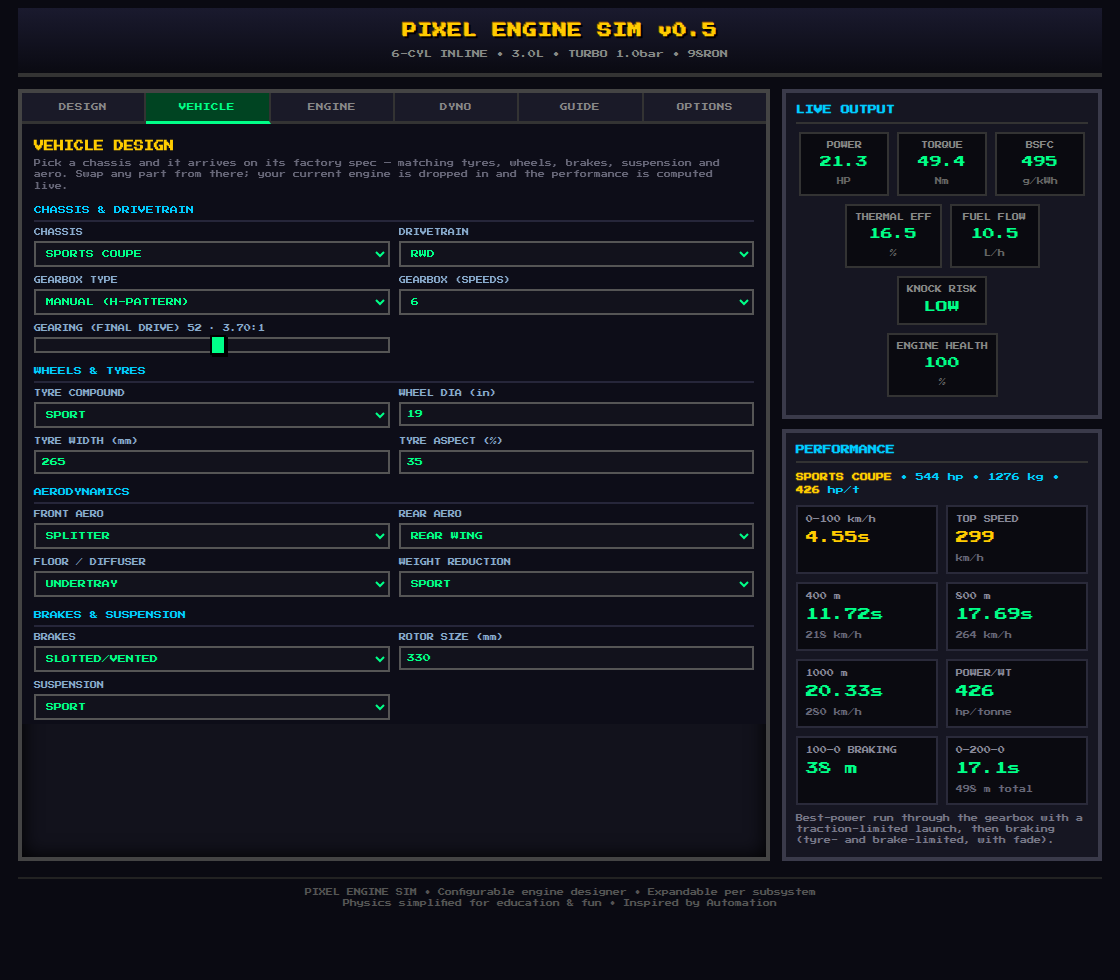
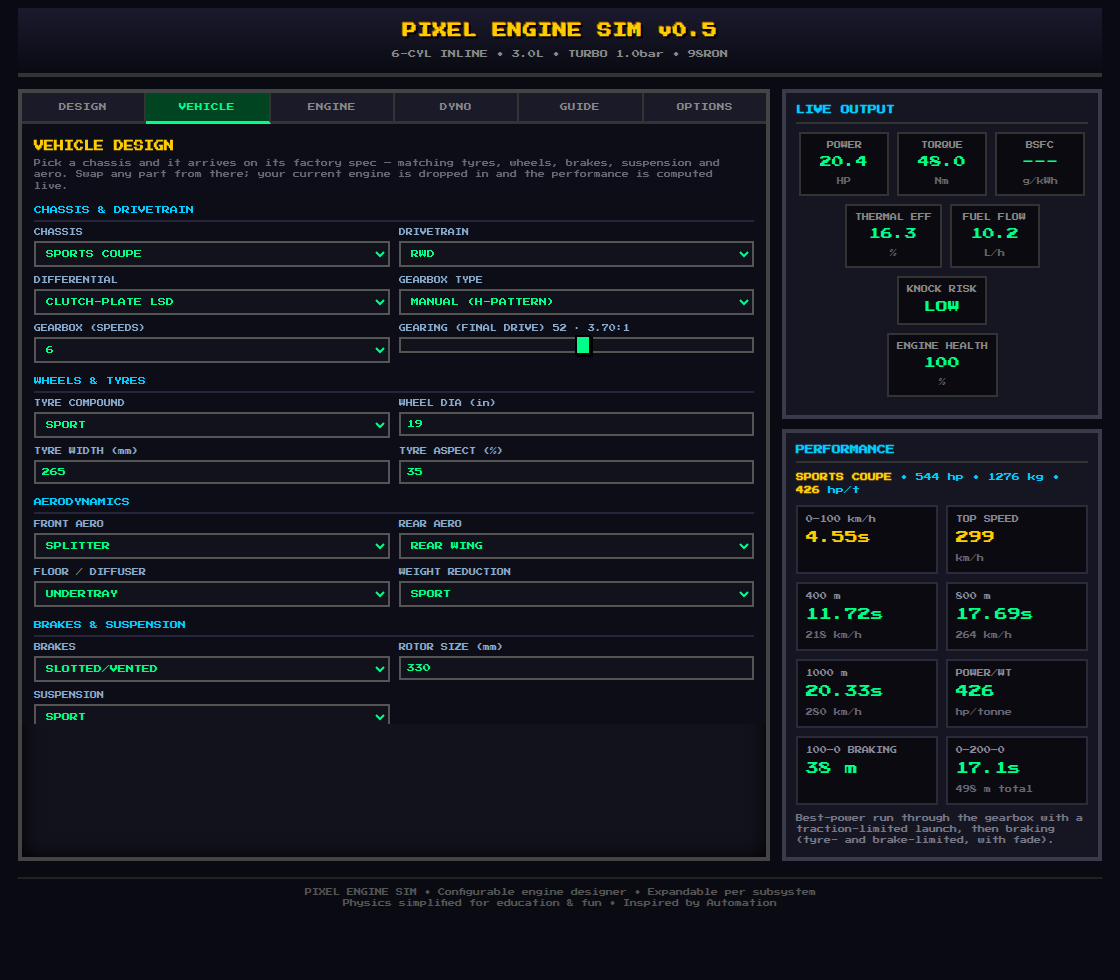
Add differential types: open, viscous LSD, clutch-plate LSD and spool (#32)
PR B of the drivetrain pair. The driven axle put down 100% of its grip
regardless of what was between the wheels.

An axle's two wheels are never loaded identically — road camber, engine torque
reaction, axle wind-up and suspension geometry all unload one side. An OPEN
diff can only feed each wheel the torque the lighter-loaded one will hold, so
it spins that wheel and throws the rest away; the usable share of axle grip is
1 - 2*asym for that asymmetry. A limited-slip ties the two together and
recovers most of it, a spool welds them and recovers all of it:

  open   0.78    viscous 0.92    clutch-plate 1.00    spool 1.04

The model caps traction rather than torque, so the effect is emergent and
self-scaling: it only bites while the car is traction-limited. On an 842 hp
muscle car, open -> spool is worth 1.85 s to 100 km/h (6.43 -> 4.58 s). On a
48 hp 2-stroke kei the same swap is worth 0.00 s, because it never troubles its
tyres. Top speed is drag-limited and is untouched by the diff in every case.

The clutch-plate LSD is deliberately traction:1.00, so builds saved before
differentials existed (which inherit DEFAULT_VEHICLE) reproduce their old
numbers exactly rather than silently getting slower.

Each chassis' factory fit carries a matching diff — kei/hatch/pickup open,
roadster/sedan/SUV viscous, coupe/muscle/rally/GT/super/hyper clutch-plate,
prototype spool — and diff cost feeds the build budget.
[…]

Changed region(s): [[0.0312, 0.2755, 0.6875, 0.7347], [0.3438, 0.2755, 0.6562, 0.3673], [0.9062, 0.1531, 0.9375, 0.1837]]

diff --git a/index.html b/index.html
@@ -397,6 +397,22 @@ converter stalls up against the brakes and <i>multiplies</i> engine torque (up t
 manual despite giving away power everywhere else — and why it suits a heavy, torquey car far
 better than a light, peaky one. It also spreads its ratios wider: a lower 1st to get the load
 moving, a taller top for cruising.<br>
+<b>The differential</b> splits drive between the two wheels on an axle — and decides how much of
+that axle's grip you can actually use. The two wheels are never loaded identically (road camber,
+engine torque reaction, axle wind-up, suspension geometry), and an <b>open</b> diff can only feed
+each wheel what the <i>lighter-loaded</i> one will hold: it spins that wheel and throws the rest
+away, leaving about 78% of the axle's grip usable. A <b>viscous LSD</b> ties the two together
+through fluid shear and recovers most of it (~92%); a <b>clutch-plate LSD</b> locks them against a
+preload for effectively all of it; a <b>spool</b> welds them solid and is the best of all in a
+straight line, which is why drag cars run one.<br>
+The key thing: a diff only matters while you're <b>traction-limited</b>. Fit a spool to a slow car
+and nothing changes — it never troubles its tyres. Fit one to a car that's spinning up off the
+line and it can be worth more than a power upgrade. Watch the LIMITED-BY behaviour: if your 0–100
+barely moves when you change diff, the engine is the limit, not grip.<br>
+<span style="color:#c86">One caveat — a spool's real cost is cornering: it fights every turn,
+scrubs tyres and understeers badly, which is why road cars don't use one. This sim only measures
+straight lines so far, so the spool looks strictly best here. Take that with a pinch of salt until
+the test track lands.</span><br>
 <b>The gearing number</b> — the 0–100 slider is your <b>final drive ratio</b>, how many times the
 driveshaft turns per turn of the wheels. It runs from <b>0 = 4.90:1</b> (the <i>shortest</i>,
 lowest gearing) to <b>100 = 2.60:1</b> (the <i>tallest</i>); the ratio is shown next to the number.
@@ -450,6 +466,7 @@ experiment freely, then back on for consequences.</div>
 <option value="hyper">CARBON HYPERCAR</option><option value="proto">TRACK PROTOTYPE</option><option value="pickup">PICKUP TRUCK</option><option value="suv">PERFORMANCE SUV</option>
 </select></div>
 <div class="field"><label for="vhDrive">DRIVETRAIN</label><select id="vhDrive"><option value="fwd">FWD</option><option value="rwd">RWD</option><option value="awd">AWD</option></select></div>
+<div class="field"><label for="vhDiff">DIFFERENTIAL</label><select id="vhDiff"><option value="open">OPEN</option><option value="visc">VISCOUS LSD</option><option value="clsd">CLUTCH-PLATE LSD</option><option value="spool">SPOOL / LOCKED</option></select></div>
 <div class="field"><label for="vhGearbox">GEARBOX TYPE</label><select id="vhGearbox"><option value="manual">MANUAL (H-PATTERN)</option><option value="sequential">SEQUENTIAL</option><option value="dct">DUAL-CLUTCH (DCT)</option><option value="auto">TORQUE-CONV AUTO</option></select></div>
 <div class="field"><label for="vhGears">GEARBOX (SPEEDS)</label><select id="vhGears"><option value="4">4</option><option value="5">5</option><option value="6">6</option><option value="7">7</option><option value="8">8</option></select></div>
 <div class="field"><label for="vhGearing"><span id="lblGearing" class="ctl-lbl">GEARING (FINAL DRIVE)</span> <span class="val" id="valGearing">52</span></label><input type="range" id="vhGearing" min="0" max="100" step="1" value="52" aria-label="Gearing short to tall"></div>
@@ -720,6 +737,7 @@ const I18N={
   'VEHICLE':{el:'ΟΧΗΜΑ'},'VEHICLE DESIGN':{el:'ΣΧΕΔΙΑΣΗ ΟΧΗΜΑΤΟΣ'},
   'Pick a chassis and it arrives on its factory spec — matching tyres, wheels, brakes, suspension and aero. Swap any part from there; your current engine is dropped in and the performance is computed live.':{el:'Διάλεξε σασί και έρχεται με τον εργοστασιακό του εξοπλισμό — ταιριαστά ελαστικά, ζάντες, φρένα, ανάρτηση και αεροδυναμική. Άλλαξε ό,τι θέλεις από εκεί· ο τρέχων κινητήρας μπαίνει μέσα και οι επιδόσεις υπολογίζονται ζωντανά.'},
   'Chassis & Drivetrain':{el:'Σασί & Μετάδοση'},'CHASSIS':{el:'ΣΑΣΙ'},'DRIVETRAIN':{el:'ΜΕΤΑΔΟΣΗ'},'GEARBOX (SPEEDS)':{el:'ΚΙΒΩΤΙΟ (ΣΧΕΣΕΙΣ)'},'GEARING (FINAL DRIVE)':{el:'ΤΕΛΙΚΗ ΣΧΕΣΗ'},
+  'DIFFERENTIAL':{el:'ΔΙΑΦΟΡΙΚΟ'},'OPEN':{el:'ΑΝΟΙΧΤΟ'},'VISCOUS LSD':{el:'ΙΞΩΔΕΣ LSD'},'CLUTCH-PLATE LSD':{el:'LSD ΜΕ ΔΙΣΚΟΥΣ'},'SPOOL / LOCKED':{el:'ΜΠΛΟΚΕ / SPOOL'},
   'GEARBOX TYPE':{el:'ΤΥΠΟΣ ΚΙΒΩΤΙΟΥ'},'MANUAL (H-PATTERN)':{el:'ΧΕΙΡΟΚΙΝΗΤΟ (H)'},'SEQUENTIAL':{el:'ΣΕΙΡΙΑΚΟ'},'DUAL-CLUTCH (DCT)':{el:'ΔΙΠΛΟΥ ΣΥΜΠΛΕΚΤΗ (DCT)'},'TORQUE-CONV AUTO':{el:'ΑΥΤΟΜΑΤΟ (ΜΕΤΑΤΡΟΠΕΑΣ)'},
   'REFIT FACTORY SPEC':{el:'ΕΡΓΟΣΤΑΣΙΑΚΟΣ ΕΞΟΠΛΙΣΜΟΣ'},'FITTED':{el:'ΤΟΠΟΘΕΤΗΘΗΚΕ'},'REFITTED TO FACTORY SPEC':{el:'ΕΠΑΝΑΦΟΡΑ ΣΤΟΝ ΕΡΓΟΣΤΑΣΙΑΚΟ ΕΞΟΠΛΙΣΜΟ'},
   '(factory spec)':{el:'(εργοστασιακό)'},'(modified)':{el:'(τροποποιημένο)'},
@@ -749,7 +767,7 @@ const GUIDE_I18N={
   career:{el:'Διάλεξε έναν <b>ΣΤΟΧΟ</b> στην κορυφή της ΣΧΕΔΙΑΣΗΣ για να κάνεις τη σχεδίαση γρίφο. Κάθε πρόκληση θέτει κριτήρια — ισχύ, οικονομία, εκπομπές, <b>αξιοπιστία</b> ή <b>ισχύ ανά δολάριο</b> — και κάποιες βάζουν όριο <b>προϋπολογισμού</b>. Η κάρτα τσεκάρει κάθε κριτήριο ζωντανά (✓/✗) και δείχνει <b>ΕΠΙΤΥΧΙΑ</b> όταν καλυφθούν όλα· κόστος και αξιοπιστία φαίνονται πάντα. Ο μεγάλος κυβισμός κερδίζει σε αξία· boost και αγωνιστικά μέρη κερδίζουν σε ισχύ αλλά κοστίζουν σε χρήμα και αξιοπιστία.'},
   types:{el:'<b>Βενζίνη 4-χρονη</b> — η ισορροπημένη επιλογή: ανάφλεξη με σπινθήρα, μία εκρηκτική διαδρομή ανά δύο στροφές.<br><b>Πετρέλαιο (CI)</b> — ανάφλεξη με συμπίεση (χωρίς μπουζί, χωρίς πειράκι), πολύ υψηλή συμπίεση, φτωχό χωρίς πεταλούδα. Μεγάλη <b>ροπή</b> στις χαμηλές, χαμηλό όριο στροφών, η καλύτερη <b>απόδοση</b> — αλλά βαρύ, με εκπομπές <b>NOx + αιθάλη (PM)</b> που καθαρίζει σύστημα DPF/SCR.<br><b>2-χρονη</b> — εκρηκτική διαδρομή σε <i>κάθε</i> στροφή (θυρίδες, χωρίς εκκεντροφόρο): υψηλή ειδική ισχύς αλλά λαίμαργη και <b>HC</b>-βρόμικη.<br><b>Wankel (ρότορας)</b> — περιστρεφόμενος ρότορας που ανάβει σε κάθε στροφή: ομαλός σαν τουρμπίνα, τεράστιες στροφές, υψηλή ισχύς ανά λίτρο, αλλά λαίμαργος, <b>HC</b>-βαρύς και σκληρός στα ελάσματα κορυφής.<br>Η αλλαγή τύπου προσαρμόζει τα εύρη συμπίεσης/στροφών/AFR και απενεργοποιεί ό,τι δεν ισχύει.'},
   subsystems:{el:'<b>Κάτω μέρος</b> — τύπος κινητήρα, διάμετρος × διαδρομή × κύλινδροι = κυβισμός· υπερτετράγωνος & υψηλότερο όριο ανεβάζουν την περιοχή ισχύος.<br><b>Διαδρομή αέρα</b> — τούρμπο (γεμίζει με τις στροφές) ή υπερσυμπιεστής (boost από ρελαντί)· το intercooler ψύχει το χάρμανι· εξάτμιση & καταλύτης ανταλλάσσουν ροή με αντίθλιψη/εκπομπές· το νιτρό είναι εμφιαλωμένη ισχύς.<br><b>Εισαγωγή</b> — καρμπιρατέρ → EFI → ITB ορίζουν αναπνοή, ακρίβεια & ρελαντί.<br><b>Χρονισμός βαλβίδων</b> — άγριες εκκεντροφόροι ανεβάζουν την ισχύ ψηλά· το VVT επαναφέρει τις χαμηλές.<br><b>Καύσιμο & σπινθήρας</b> — τύπος καυσίμου, οκτάνια, μπεκ, ανάφλεξη, χρονισμός FIXED/AUTO και το μείγμα: MANUAL (ένα σταθερό AFR) ή AUTO — ένας 3D χάρτης ECU που τρέχει κοντά στο στοιχειομετρικό στο ελαφρύ φορτίο και εμπλουτίζει υπό φορτίο/boost, όπως ένας πραγματικός χάρτης καυσίμου. Στο AUTO μπορείς να <b>ρυθμίσεις τον χάρτη</b>: πάτησε ένα κελί και μετά − ΦΤΩΧΟ / + ΠΛΟΥΣΙΟ για να αλλάξεις τον στόχο σε εκείνο το φορτίο×στροφές (ΕΠΑΝΑΦΟΡΑ ΧΑΡΤΗ επαναφέρει το εργοστασιακό).<br><b>Ψύξη & ηλεκτρικά</b> — ψυγείο/βεντιλατέρ/ψυγείο λαδιού/θερμοστάτης ορίζουν θερμοκρασίες· δυναμό & ανάφλεξη ορίζουν φόρτιση και όριο μισφάιρ.'},
-  vehicle:{el:'Στην καρτέλα <b>ΟΧΗΜΑ</b> βάζεις τον κινητήρα σου σε αυτοκίνητο. Διάλεξε <b>σασί</b> και έρχεται με τον <b>εργοστασιακό του εξοπλισμό</b> — τα ελαστικά, ζάντες, φρένα, ανάρτηση, αεροδυναμική και κιβώτιο που θα φορούσε πραγματικά: ένα kei εμφανίζεται με στενά οικονομικά ελαστικά και μικρούς ατσάλινους δίσκους, ενώ ένα hypercar παίρνει φαρδιά semi-slick, carbon-ceramic φρένα και πακέτο αεροτομής/diffuser. Όλα παραμένουν επεξεργάσιμα· το <b>ΕΡΓΟΣΤΑΣΙΑΚΟΣ ΕΞΟΠΛΙΣΜΟΣ</b> τα επαναφέρει.<br>Από εκεί ρυθμίζεις <b>μετάδοση</b> (FWD/RWD/AWD — το AWD ξεκινά καλύτερα), <b>κιβώτιο</b> (τύπος, σχέσεις + ρυθμιστικό τελικής), <b>ελαστικά</b> (τύπος + πλάτος/προφίλ/διάμετρος), <b>αεροδυναμική</b> (εμπρός/πίσω/πάτωμα = κάθετη δύναμη & οπισθέλκουσα), <b>φρένα</b> (τύπος + διάμετρος δίσκου) και <b>ανάρτηση</b> (πολλαπλασιαστής μηχανικής πρόσφυσης).<br><b>Ο τύπος κιβωτίου</b> αλλάζει τέσσερα πράγματα: πόσο κόβεται η μετάδοση σε κάθε αλλαγή, πόση από την ισχύ του κινητήρα φτάνει στους τροχούς, πώς είναι κλιμακωμένες οι σχέσεις, και πώς ξεκινά το αυτοκίνητο.<br>· <b>Χειροκίνητο (H)</b> — το πιο αποδοτικό, αλλά χάνεις ~350 ms σε κάθε αλλαγή. Φθηνό.<br>· <b>Σειριακό</b> — αγωνιστικό: αλλαγές ~60 ms και κοντές σχέσεις που κρατούν έναν «αιχμηρό» κινητήρα στην περιοχή του. Ακριβό.<br>· <b>Διπλού συμπλέκτη (DCT)</b> — η επόμενη σχέση είναι ήδη επιλεγμένη στον δεύτερο συμπλέκτη, άρα σχεδόν αδιάλειπτες αλλαγές (~30 ms). Το ταχύτερο, και ανάλογα ακριβό.<br>· <b>Αυτόματο με μετατροπέα ροπής</b> — οι πιο αργές αλλαγές (~200 ms) και οι μεγαλύτερες απώλειες, γιατί μεταδίδει μέσω υγρού. Το κερδίζει στην <b>εκκίνηση</b>: ο μετατροπέας «φορτίζει» πάνω στα φρένα και <i>πολλαπλασιάζει</i> τη ροπή (έως ~1.9× σε στάλλ 2400 σ.α.λ.), σβήνοντας στο 1:1 καθώς ο στρόβιλος προλαβαίνει. Γι’ αυτό ένα αυτόματο ξεκινά καλύτερα από ένα χειροκίνητο παρότι χάνει ισχύ παντού αλλού — και γι’ αυτό ταιριάζει σε βαρύ, ροπάτο αυτοκίνητο, όχι σε ελαφρύ και «αιχμηρό». Επίσης απλώνει περισσότερο τις σχέσεις: πιο κοντή 1η, πιο μακριά τελευταία.<br><b>Ο αριθμός της τελικής</b> — το ρυθμιστικό 0–100 είναι η <b>σχέση τελικής μετάδοσης</b>, πόσες φορές γυρίζει ο άξονας ανά στροφή των τροχών. Πάει από <b>0 = 4.90:1</b> (η <i>κοντύτερη</i>) έως <b>100 = 2.60:1</b> (η <i>μακρύτερη</i>)· η σχέση φαίνεται δίπλα στον αριθμό. Κοντή τελική πολλαπλασιάζει τη ροπή στους τροχούς: δυνατότερη επιτάχυνση, αλλά κάθε σχέση τελειώνει νωρίς. Μακριά τελική κάνει το αντίθετο: πιο νωθρή επιτάχυνση, περισσότερη ταχύτητα ανά 1000 στροφές και ήρεμο ταξίδι. Ιδανική είναι η πιο μακριά που ο κινητήρας μπορεί ακόμα να τραβήξει ως την κορυφή της ισχύος του στην τελευταία σχέση. Πιο μακριά από αυτό, η τελική ταχύτητα απλώς <i>σταματά να βελτιώνεται</i> — το αυτοκίνητο πιάνει το μέγιστό του μια σχέση χαμηλότερα αντί να «πνίγεται» στην τελευταία — ενώ η επιτάχυνση συνεχίζει να χειροτερεύει, οπότε πληρώνεις χωρίς όφελος. Πολλή ισχύς και λίγη οπισθέλκουσα σηκώνουν πολύ μακριά τελική και κερδίζουν ταχύτητα ως το τέρμα· βαριά, αδύναμα ή αεροδυναμικά «βρώμικα» αυτοκίνητα φτάνουν γρήγορα σε πλατό και θέλουν κοντύτερη.<br>Ο κινητήρας προστίθεται και το ταμπλό <b>Επιδόσεις</b> υπολογίζει <b>0–100 km/h</b>, <b>400/800/1000 m</b>, <b>τελική</b>, <b>φρενάρισμα 100–0</b> και το τεστ <b>0–200–0</b> ζωντανά — εκκίνηση περιορισμένη από πρόσφυση και φρενάρισμα με όριο ελαστικών/φρένων και εξασθένηση. Κολλώδη ελαστικά, μεγάλα φρένα και AWD βοηθούν πιο πολύ.'},
+  vehicle:{el:'Στην καρτέλα <b>ΟΧΗΜΑ</b> βάζεις τον κινητήρα σου σε αυτοκίνητο. Διάλεξε <b>σασί</b> και έρχεται με τον <b>εργοστασιακό του εξοπλισμό</b> — τα ελαστικά, ζάντες, φρένα, ανάρτηση, αεροδυναμική και κιβώτιο που θα φορούσε πραγματικά: ένα kei εμφανίζεται με στενά οικονομικά ελαστικά και μικρούς ατσάλινους δίσκους, ενώ ένα hypercar παίρνει φαρδιά semi-slick, carbon-ceramic φρένα και πακέτο αεροτομής/diffuser. Όλα παραμένουν επεξεργάσιμα· το <b>ΕΡΓΟΣΤΑΣΙΑΚΟΣ ΕΞΟΠΛΙΣΜΟΣ</b> τα επαναφέρει.<br>Από εκεί ρυθμίζεις <b>μετάδοση</b> (FWD/RWD/AWD — το AWD ξεκινά καλύτερα), <b>κιβώτιο</b> (τύπος, σχέσεις + ρυθμιστικό τελικής), <b>ελαστικά</b> (τύπος + πλάτος/προφίλ/διάμετρος), <b>αεροδυναμική</b> (εμπρός/πίσω/πάτωμα = κάθετη δύναμη & οπισθέλκουσα), <b>φρένα</b> (τύπος + διάμετρος δίσκου) και <b>ανάρτηση</b> (πολλαπλασιαστής μηχανικής πρόσφυσης).<br><b>Ο τύπος κιβωτίου</b> αλλάζει τέσσερα πράγματα: πόσο κόβεται η μετάδοση σε κάθε αλλαγή, πόση από την ισχύ του κινητήρα φτάνει στους τροχούς, πώς είναι κλιμακωμένες οι σχέσεις, και πώς ξεκινά το αυτοκίνητο.<br>· <b>Χειροκίνητο (H)</b> — το πιο αποδοτικό, αλλά χάνεις ~350 ms σε κάθε αλλαγή. Φθηνό.<br>· <b>Σειριακό</b> — αγωνιστικό: αλλαγές ~60 ms και κοντές σχέσεις που κρατούν έναν «αιχμηρό» κινητήρα στην περιοχή του. Ακριβό.<br>· <b>Διπλού συμπλέκτη (DCT)</b> — η επόμενη σχέση είναι ήδη επιλεγμένη στον δεύτερο συμπλέκτη, άρα σχεδόν αδιάλειπτες αλλαγές (~30 ms). Το ταχύτερο, και ανάλογα ακριβό.<br>· <b>Αυτόματο με μετατροπέα ροπής</b> — οι πιο αργές αλλαγές (~200 ms) και οι μεγαλύτερες απώλειες, γιατί μεταδίδει μέσω υγρού. Το κερδίζει στην <b>εκκίνηση</b>: ο μετατροπέας «φορτίζει» πάνω στα φρένα και <i>πολλαπλασιάζει</i> τη ροπή (έως ~1.9× σε στάλλ 2400 σ.α.λ.), σβήνοντας στο 1:1 καθώς ο στρόβιλος προλαβαίνει. Γι’ αυτό ένα αυτόματο ξεκινά καλύτερα από ένα χειροκίνητο παρότι χάνει ισχύ παντού αλλού — και γι’ αυτό ταιριάζει σε βαρύ, ροπάτο αυτοκίνητο, όχι σε ελαφρύ και «αιχμηρό». Επίσης απλώνει περισσότερο τις σχέσεις: πιο κοντή 1η, πιο μακριά τελευταία.<br><b>Το διαφορικό</b> μοιράζει την κίνηση στους δύο τροχούς του άξονα — και καθορίζει πόση από την πρόσφυση του άξονα μπορείς πραγματικά να χρησιμοποιήσεις. Οι δύο τροχοί δεν είναι ποτέ φορτωμένοι το ίδιο (κλίση δρόμου, αντίδραση ροπής, στρέψη άξονα, γεωμετρία ανάρτησης), και ένα <b>ανοιχτό</b> διαφορικό δίνει σε κάθε τροχό μόνο όση ροπή αντέχει ο <i>λιγότερο φορτωμένος</i>: στρίβει αυτόν τον τροχό και πετάει τα υπόλοιπα, αφήνοντας περίπου 78% της πρόσφυσης αξιοποιήσιμο. Ένα <b>ιξώδες LSD</b> τους δένει μεταξύ τους και ανακτά τα περισσότερα (~92%)· ένα <b>LSD με δίσκους</b> ουσιαστικά όλα· ένα <b>μπλοκέ (spool)</b> τους ενώνει μόνιμα και είναι το καλύτερο σε ευθεία — γι’ αυτό το χρησιμοποιούν τα dragster.<br>Το βασικό: το διαφορικό μετράει μόνο όσο είσαι <b>περιορισμένος από πρόσφυση</b>. Βάλε spool σε αργό αυτοκίνητο και δεν αλλάζει τίποτα. Βάλ’ το σε ένα που πατινάρει στην εκκίνηση και αξίζει περισσότερο από αναβάθμιση ισχύος.<br><span style="color:#c86">Μια επιφύλαξη — το πραγματικό κόστος ενός spool είναι στις στροφές: παλεύει σε κάθε στροφή, τρώει ελαστικά και υποστρέφει άσχημα, γι’ αυτό δεν το βάζουν στα δρόμου. Ο προσομοιωτής μετράει μόνο ευθείες προς το παρόν, οπότε εδώ φαίνεται απόλυτα καλύτερο. Κράτα μια επιφύλαξη μέχρι να έρθει η πίστα δοκιμών.</span><br><b>Ο αριθμός της τελικής</b> — το ρυθμιστικό 0–100 είναι η <b>σχέση τελικής μετάδοσης</b>, πόσες φορές γυρίζει ο άξονας ανά στροφή των τροχών. Πάει από <b>0 = 4.90:1</b> (η <i>κοντύτερη</i>) έως <b>100 = 2.60:1</b> (η <i>μακρύτερη</i>)· η σχέση φαίνεται δίπλα στον αριθμό. Κοντή τελική πολλαπλασιάζει τη ροπή στους τροχούς: δυνατότερη επιτάχυνση, αλλά κάθε σχέση τελειώνει νωρίς. Μακριά τελική κάνει το αντίθετο: πιο νωθρή επιτάχυνση, περισσότερη ταχύτητα ανά 1000 στροφές και ήρεμο ταξίδι. Ιδανική είναι η πιο μακριά που ο κινητήρας μπορεί ακόμα να τραβήξει ως την κορυφή της ισχύος του στην τελευταία σχέση. Πιο μακριά από αυτό, η τελική ταχύτητα απλώς <i>σταματά να βελτιώνεται</i> — το αυτοκίνητο πιάνει το μέγιστό του μια σχέση χαμηλότερα αντί να «πνίγεται» στην τελευταία — ενώ η επιτάχυνση συνεχίζει να χειροτερεύει, οπότε πληρώνεις χωρίς όφελος. Πολλή ισχύς και λίγη οπισθέλκουσα σηκώνουν πολύ μακριά τελική και κερδίζουν ταχύτητα ως το τέρμα· βαριά, αδύναμα ή αεροδυναμικά «βρώμικα» αυτοκίνητα φτάνουν γρήγορα σε πλατό και θέλουν κοντύτερη.<br>Ο κινητήρας προστίθεται και το ταμπλό <b>Επιδόσεις</b> υπολογίζει <b>0–100 km/h</b>, <b>400/800/1000 m</b>, <b>τελική</b>, <b>φρενάρισμα 100–0</b> και το τεστ <b>0–200–0</b> ζωντανά — εκκίνηση περιορισμένη από πρόσφυση και φρενάρισμα με όριο ελαστικών/φρένων και εξασθένηση. Κολλώδη ελαστικά, μεγάλα φρένα και AWD βοηθούν πιο πολύ.'},
   tip:{el:'Συμβουλή: κλείσε τη ΦΘΟΡΑ στις ΕΠΙΛΟΓΕΣ για ελεύθερο πειραματισμό, μετά ξανάνοιξέ την για συνέπειες.'}
 };
 const CHALLENGE_I18N={
@@ -877,31 +895,31 @@ const CAT={
 // carbon-ceramics and a full wing/diffuser package — which the user can then tune from.
 const CHASSIS={
   kei:      {label:'KEI CAR',           mass:640, area:1.85,cd:0.34,wb:2.40,cg:0.52,fWt:0.60,grip:0.98,drive:'fwd',aero:0.4,cost:5000,
-             fit:{tire:'eco',  tw:165,ta:60,wheel:15,brake:'steel',  rotor:260,susp:'comfort', aF:'none',    aR:'none',aFl:'none',     weight:'none',  gears:5,gearing:44,gearbox:'manual'}},
+             fit:{tire:'eco',  tw:165,ta:60,wheel:15,brake:'steel',  rotor:260,susp:'comfort', aF:'none',    aR:'none',aFl:'none',     weight:'none',  gears:5,gearing:44,gearbox:'manual',diff:'open'}},
   hatch:    {label:'HOT HATCH',         mass:1080,area:2.10,cd:0.32,wb:2.60,cg:0.52,fWt:0.62,grip:1.00,drive:'fwd',aero:0.6,cost:8000,
-             fit:{tire:'sport',tw:205,ta:45,wheel:17,brake:'slotted',rotor:300,susp:'sport',   aF:'none',    aR:'none',aFl:'none',     weight:'none',  gears:6,gearing:50,gearbox:'manual'}},
+             fit:{tire:'sport',tw:205,ta:45,wheel:17,brake:'slotted',rotor:300,susp:'sport',   aF:'none',    aR:'none',aFl:'none',     weight:'none',  gears:6,gearing:50,gearbox:'manual',diff:'open'}},
   roadster: {label:'LIGHT ROADSTER',    mass:980, area:1.90,cd:0.35,wb:2.30,cg:0.46,fWt:0.52,grip:1.04,drive:'rwd',aero:0.6,cost:9000,
-             fit:{tire:'sport',tw:195,ta:50,wheel:16,brake:'slotted',rotor:290,susp:'sport',   aF:'none',    aR:'none',aFl:'none',     weight:'street',gears:6,gearing:52,gearbox:'manual'}},
+             fit:{tire:'sport',tw:195,ta:50,wheel:16,brake:'slotted',rotor:290,susp:'sport',   aF:'none',    aR:'none',aFl:'none',     weight:'street',gears:6,gearing:52,gearbox:'manual',diff:'visc'}},
   coupe:    {label:'SPORTS COUPE',      mass:1200,area:2.05,cd:0.31,wb:2.65,cg:0.48,fWt:0.54,grip:1.03,drive:'rwd',aero:0.8,cost:11000,
-             fit:{tire:'sport',tw:245,ta:40,wheel:18,brake:'slotted',rotor:330,susp:'sport',   aF:'none',    aR:'lip', aFl:'none',     weight:'none',  gears:6,gearing:52,gearbox:'manual'}},
+             fit:{tire:'sport',tw:245,ta:40,wheel:18,brake:'slotted',rotor:330,susp:'sport',   aF:'none',    aR:'lip', aFl:'none',     weight:'none',  gears:6,gearing:52,gearbox:'manual',diff:'clsd'}},
   sedan:    {label:'SPORTS SEDAN',      mass:1420,area:2.20,cd:0.29,wb:2.85,cg:0.52,fWt:0.55,grip:1.00,drive:'rwd',aero:0.7,cost:12000,
-             fit:{tire:'sport',tw:245,ta:40,wheel:18,brake:'slotted',rotor:330,susp:'sport',   aF:'none',    aR:'none',aFl:'none',     weight:'none',  gears:7,gearing:56,gearbox:'auto'}},
+             fit:{tire:'sport',tw:245,ta:40,wheel:18,brake:'slotted',rotor:330,susp:'sport',   aF:'none',    aR:'none',aFl:'none',     weight:'none',  gears:7,gearing:56,gearbox:'auto',diff:'visc'}},
   muscle:   {label:'MUSCLE CAR',        mass:1620,area:2.25,cd:0.36,wb:2.95,cg:0.50,fWt:0.56,grip:0.98,drive:'rwd',aero:0.5,cost:13000,
-             fit:{tire:'sport',tw:275,ta:40,wheel:18,brake:'big',    rotor:340,susp:'sport',   aF:'none',    aR:'none',aFl:'none',     weight:'none',  gears:6,gearing:48,gearbox:'auto'}},
+             fit:{tire:'sport',tw:275,ta:40,wheel:18,brake:'big',    rotor:340,susp:'sport',   aF:'none',    aR:'none',aFl:'none',     weight:'none',  gears:6,gearing:48,gearbox:'auto',diff:'clsd'}},
   rally:    {label:'RALLY AWD HATCH',   mass:1300,area:2.15,cd:0.34,wb:2.60,cg:0.52,fWt:0.58,grip:1.06,drive:'awd',aero:0.7,cost:14000,
-             fit:{tire:'sport',tw:225,ta:45,wheel:17,brake:'slotted',rotor:320,susp:'coilover',aF:'splitter',aR:'lip', aFl:'none',     weight:'street',gears:6,gearing:50,gearbox:'manual'}},
+             fit:{tire:'sport',tw:225,ta:45,wheel:17,brake:'slotted',rotor:320,susp:'coilover',aF:'splitter',aR:'lip', aFl:'none',     weight:'street',gears:6,gearing:50,gearbox:'manual',diff:'clsd'}},
   gt:       {label:'GRAND TOURER',      mass:1580,area:2.15,cd:0.30,wb:2.90,cg:0.48,fWt:0.52,grip:1.04,drive:'rwd',aero:0.9,cost:20000,
-             fit:{tire:'sport',tw:265,ta:35,wheel:19,brake:'big',    rotor:350,susp:'coilover',aF:'splitter',aR:'lip', aFl:'none',     weight:'none',  gears:7,gearing:58,gearbox:'dct'}},
+             fit:{tire:'sport',tw:265,ta:35,wheel:19,brake:'big',    rotor:350,susp:'coilover',aF:'splitter',aR:'lip', aFl:'none',     weight:'none',  gears:7,gearing:58,gearbox:'dct',diff:'clsd'}},
   super:    {label:'MID-ENGINE SUPER',  mass:1340,area:1.95,cd:0.33,wb:2.65,cg:0.44,fWt:0.42,grip:1.12,drive:'rwd',aero:1.2,cost:30000,
-             fit:{tire:'semi', tw:285,ta:35,wheel:19,brake:'big',    rotor:360,susp:'coilover',aF:'splitter',aR:'wing',aFl:'undertray',weight:'sport', gears:7,gearing:54,gearbox:'dct'}},
+             fit:{tire:'semi', tw:285,ta:35,wheel:19,brake:'big',    rotor:360,susp:'coilover',aF:'splitter',aR:'wing',aFl:'undertray',weight:'sport', gears:7,gearing:54,gearbox:'dct',diff:'clsd'}},
   hyper:    {label:'CARBON HYPERCAR',   mass:1240,area:1.92,cd:0.35,wb:2.70,cg:0.44,fWt:0.44,grip:1.18,drive:'awd',aero:1.6,cost:60000,
-             fit:{tire:'semi', tw:305,ta:30,wheel:20,brake:'carbon', rotor:390,susp:'race',    aF:'wing',    aR:'wing',aFl:'diffuser', weight:'sport', gears:7,gearing:56,gearbox:'dct'}},
+             fit:{tire:'semi', tw:305,ta:30,wheel:20,brake:'carbon', rotor:390,susp:'race',    aF:'wing',    aR:'wing',aFl:'diffuser', weight:'sport', gears:7,gearing:56,gearbox:'dct',diff:'clsd'}},
   proto:    {label:'TRACK PROTOTYPE',   mass:620, area:1.55,cd:0.60,wb:2.80,cg:0.32,fWt:0.46,grip:1.30,drive:'rwd',aero:3.0,cost:45000,
-             fit:{tire:'slick',tw:305,ta:30,wheel:18,brake:'carbon', rotor:380,susp:'race',    aF:'wing',    aR:'wing',aFl:'diffuser', weight:'race',  gears:6,gearing:50,gearbox:'sequential'}},
+             fit:{tire:'slick',tw:305,ta:30,wheel:18,brake:'carbon', rotor:380,susp:'race',    aF:'wing',    aR:'wing',aFl:'diffuser', weight:'race',  gears:6,gearing:50,gearbox:'sequential',diff:'spool'}},
   pickup:   {label:'PICKUP TRUCK',      mass:2050,area:3.20,cd:0.45,wb:3.60,cg:0.68,fWt:0.58,grip:0.92,drive:'rwd',aero:0.2,cost:11000,
-             fit:{tire:'eco',  tw:265,ta:65,wheel:17,brake:'slotted',rotor:330,susp:'comfort', aF:'none',    aR:'none',aFl:'none',     weight:'none',  gears:6,gearing:42,gearbox:'auto'}},
+             fit:{tire:'eco',  tw:265,ta:65,wheel:17,brake:'slotted',rotor:330,susp:'comfort', aF:'none',    aR:'none',aFl:'none',     weight:'none',  gears:6,gearing:42,gearbox:'auto',diff:'open'}},
   suv:      {label:'PERFORMANCE SUV',   mass:1950,area:2.95,cd:0.36,wb:2.95,cg:0.66,fWt:0.54,grip:0.96,drive:'awd',aero:0.4,cost:16000,
-             fit:{tire:'sport',tw:275,ta:45,wheel:20,brake:'big',    rotor:350,susp:'sport',   aF:'none',    aR:'none',aFl:'none',     weight:'none',  gears:8,gearing:48,gearbox:'auto'}}
+             fit:{tire:'sport',tw:275,ta:45,wheel:20,brake:'big',    rotor:350,susp:'sport',   aF:'none',    aR:'none',aFl:'none',     weight:'none',  gears:8,gearing:48,gearbox:'auto',diff:'visc'}}
 };
 // Tyre compound: mu = peak grip coefficient (dry), crr = rolling resistance, cost.
 const TIRE_TYPE={
@@ -953,13 +971,33 @@ const GEARBOX={
   dct:       {label:'DUAL-CLUTCH (DCT)', shift:0.03,eff:0.98,spread:0.95,stall:0,   mult:1.0, cost:9000},
   auto:      {label:'TORQUE-CONV AUTO',  shift:0.20,eff:0.93,spread:1.10,stall:2400,mult:1.9, cost:3000}
 };
+// Differential. An axle's two driven wheels are never loaded exactly alike — road camber, engine
+// torque reaction, axle wind-up and suspension geometry all unload one side. An OPEN diff can
+// only feed each wheel the torque the *lesser-loaded* one can hold, so the usable share of the
+// axle's grip is 1 − 2·asym for that asymmetry: it spins the light wheel and throws the rest
+// away. A limited-slip locks the two together against a preload and recovers most of it; a spool
+// welds them and recovers all of it.
+//   traction — fraction of the driven axle's grip the diff can actually put down.
+// Note this only bites when the car is traction-limited: an engine-limited car sees no
+// difference, which is why a diff transforms a powerful build and does nothing for a slow one.
+// The spool's real cost — understeer, tyre scrub, undrivable on the road — is cornering
+// behaviour, which this sim doesn't model yet, so it looks strictly best here. Flagged in GUIDE.
+// The clutch LSD is deliberately traction:1.00 — the model before differentials existed applied
+// no penalty at all, so saves from then (which inherit DEFAULT_VEHICLE's clutch LSD) reproduce
+// their old numbers exactly.
+const DIFF={
+  open:  {label:'OPEN',          traction:0.78,cost:0},
+  visc:  {label:'VISCOUS LSD',   traction:0.92,cost:900},
+  clsd:  {label:'CLUTCH-PLATE LSD',traction:1.00,cost:2200},
+  spool: {label:'SPOOL / LOCKED',traction:1.04,cost:1200}
+};
 // Drivetrain: driveline efficiency (crank→wheels) and the driven-axle description.
 const DRIVE_EFF={fwd:0.92,rwd:0.90,awd:0.86};
 const AIR_RHO=1.20;   // air density kg/m³
 const G=9.81;
 // The default car is simply the SPORTS COUPE on its own factory fitment (CHASSIS.coupe.fit).
 const DEFAULT_VEHICLE={
-  chassis:'coupe',drive:'rwd',gearbox:'manual',gears:6,gearing:52,
+  chassis:'coupe',drive:'rwd',gearbox:'manual',diff:'clsd',gears:6,gearing:52,
   tireType:'sport',tireWidth:245,tireAspect:40,wheelDia:18,
   aeroFront:'none',aeroRear:'lip',aeroFloor:'none',weightRed:'none',
   brakeType:'slotted',rotor:330,suspension:'sport'
@@ -1872,7 +1910,7 @@ function genRatios(n,spread){
 function readVehicleFromForm(){
   const g=id=>document.getElementById(id);
   return {
-    chassis:g('vhChassis').value,drive:g('vhDrive').value,gearbox:g('vhGearbox').value,
+    chassis:g('vhChassis').value,drive:g('vhDrive').value,gearbox:g('vhGearbox').value,diff:g('vhDiff').value,
     // gearing may legitimately be 0 (shortest final drive), so fall back only on a non-number.
     gears:clamp(Math.round(+g('vhGears').value||6),4,8),gearing:clamp(numOr(g('vhGearing').value,52),0,100),
     tireType:g('vhTire').value,tireWidth:clamp(Math.round(+g('vhTireW').value||225),135,355),
@@ -1883,7 +1921,7 @@ function readVehicleFromForm(){
 }
 function applyVehicleToForm(v){
   const g=id=>document.getElementById(id);
-  g('vhChassis').value=v.chassis||'coupe';g('vhDrive').value=v.drive||'rwd';g('vhGearbox').value=v.gearbox||'manual';
+  g('vhChassis').value=v.chassis||'coupe';g('vhDrive').value=v.drive||'rwd';g('vhGearbox').value=v.gearbox||'manual';g('vhDiff').value=v.diff||'open';
   g('vhGears').value=v.gears||6;g('vhGearing').value=v.gearing!=null?v.gearing:52;
   g('vhTire').value=v.tireType||'sport';g('vhTireW').value=v.tireWidth||235;g('vhTireA').value=v.tireAspect||40;g('vhWheel').value=v.wheelDia||18;
   g('vhAeroF').value=v.aeroFront||'none';g('vhAeroR').value=v.aeroRear||'none';g('vhAeroFl').value=v.aeroFloor||'none';g('vhWeight').value=v.weightRed||'none';
@@ -1896,7 +1934,7 @@ function applyChassisFit(key){
   const ch=CHASSIS[key];if(!ch||!ch.fit)return null;
   const f=ch.fit,g=id=>document.getElementById(id);
   g('vhChassis').value=key;   // self-contained: callers may fit a chassis without touching the select
-  g('vhDrive').value=ch.drive;g('vhGearbox').value=f.gearbox;
+  g('vhDrive').value=ch.drive;g('vhGearbox').value=f.gearbox;g('vhDiff').value=f.diff;
   g('vhGears').value=f.gears;g('vhGearing').value=f.gearing;
   g('vhTire').value=f.tire;g('vhTireW').value=f.tw;g('vhTireA').value=f.ta;g('vhWheel').value=f.wheel;
   g('vhAeroF').value=f.aF;g('vhAeroR').value=f.aR;g('vhAeroFl').value=f.aFl;g('vhWeight').value=f.weight;
@@ -1919,7 +1957,7 @@ function fitmentLabel(v){
 // True when every fitted part still matches the chassis' factory spec.
 function isFactoryFit(v){
   const ch=CHASSIS[v.chassis];if(!ch||!ch.fit)return false;const f=ch.fit;
-  return v.drive===ch.drive&&v.gears===f.gears&&v.gearing===f.gearing&&v.gearbox===f.gearbox&&
+  return v.drive===ch.drive&&v.gears===f.gears&&v.gearing===f.gearing&&v.gearbox===f.gearbox&&v.diff===f.diff&&
     v.tireType===f.tire&&v.tireWidth===f.tw&&v.tireAspect===f.ta&&v.wheelDia===f.wheel&&
     v.aeroFront===f.aF&&v.aeroRear===f.aR&&v.aeroFloor===f.aFl&&v.weightRed===f.weight&&
     v.brakeType===f.brake&&v.rotor===f.rotor&&v.suspension===f.susp;
@@ -1930,7 +1968,7 @@ function computeVehicleCost(ch,tt,wr){
   c+=(BRAKE_TYPE[vehicle.brakeType]||BRAKE_TYPE.slotted).cost+(SUSPENSION[vehicle.suspension]||SUSPENSION.sport).cost;
   c+=Math.max(0,vehicle.rotor-320)*6;
   c+={fwd:0,rwd:800,awd:2500}[vehicle.drive]||0;
-  c+=(GEARBOX[vehicle.gearbox]||GEARBOX.manual).cost;
+  c+=(GEARBOX[vehicle.gearbox]||GEARBOX.manual).cost+(DIFF[vehicle.diff]||DIFF.open).cost;
   c+=Math.max(0,vehicle.gears-5)*400;
   c+=Math.max(0,vehicle.wheelDia-16)*120+Math.max(0,vehicle.tireWidth-205)*4;
   return Math.max(3000,Math.round(c/50)*50);
@@ -1955,8 +1993,9 @@ function buildVehicle(){
   const af=AERO_FRONT[vehicle.aeroFront]||AERO_FRONT.none, ar=AERO_REAR[vehicle.aeroRear]||AERO_REAR.none, al=AERO_FLOOR[vehicle.aeroFloor]||AERO_FLOOR.none;
   vehicle.clA=(af.cl+ar.cl+al.cl)*ch.aero;                            // downforce coefficient·area
   vehicle.cdA=(ch.cd+af.cd+ar.cd+al.cd)*ch.area;                      // drag coefficient·area
-  const gb=GEARBOX[vehicle.gearbox]||GEARBOX.manual;
+  const gb=GEARBOX[vehicle.gearbox]||GEARBOX.manual,df=DIFF[vehicle.diff]||DIFF.open;
   vehicle.gb=gb;vehicle.gbLabel=gb.label;
+  vehicle.df=df;vehicle.diffLabel=df.label;vehicle.diffTraction=df.traction;
   vehicle.shiftTime=gb.shift;
   vehicle.driveEff=(DRIVE_EFF[vehicle.drive]||0.90)*gb.eff;          // layout loss × gearbox loss
   vehicle.finalDrive=lerp(4.9,2.6,vehicle.gearing/100);              // short → tall
@@ -2015,6 +2054,7 @@ function simulateAccel(){
   const idle=engine.idleRpmEff,rl=engine.redline,TWO_PI=Math.PI*2,dt=0.005;
   const gb=vehicle.gb||GEARBOX.manual;
   const shiftTime=gb.shift,tcStall=gb.stall>0?clamp(gb.stall,idle,rl*0.85):0;
+  const diffTraction=vehicle.diffTraction!=null?vehicle.diffTraction:1;
   const launchRpm=clamp(rl*0.55,idle+400,rl*0.72);
   let v=0,x=0,t=0,gear=0,a=0,shiftT=0;
   const M={t100:null,q400:null,q800:null,q1000:null,v200:null},V100=100/3.6,V200=200/3.6;
@@ -2047,7 +2087,10 @@ function simulateAccel(){
     if(vehicle.drive==='awd')drivenN=Wtot;
     else if(vehicle.drive==='rwd')drivenN=m*G*(1-vehicle.fWt)+down*0.5+Math.max(0,transfer);
     else drivenN=m*G*vehicle.fWt+down*0.5-Math.max(0,transfer);
-    const F=Math.min(driveF,vehicle.mu*Math.max(0,drivenN));
+    // The differential decides how much of the driven axle's grip is actually usable: an open
+    // diff is governed by the lighter-loaded wheel and throws the rest away, an LSD recovers
+    // most of it, a spool all of it. This only bites while the car is traction-limited.
+    const F=Math.min(driveF,vehicle.mu*diffTraction*Math.max(0,drivenN));
     const drag=0.5*AIR_RHO*vehicle.cdA*v*v,roll=v>0.2?vehicle.crr*m*G:0;
     a=(F-drag-roll)/m;v=Math.max(0,v+a*dt);x+=v*dt;t+=dt;
     if(!M.t100&&v>=V100)M.t100=t;
@@ -2091,6 +2134,7 @@ function updateVehicleSummary(){
     '<br>Tyres <b>'+(TIRE_TYPE[vehicle.tireType]||TIRE_TYPE.sport).label+'</b> '+vehicle.tireWidth+'/'+vehicle.tireAspect+' R'+vehicle.wheelDia+' • grip μ<b>'+vehicle.mu.toFixed(2)+'</b>'+
     '<br>Brakes <b>'+(BRAKE_TYPE[vehicle.brakeType]||BRAKE_TYPE.slotted).label+'</b> '+vehicle.rotor+'mm ('+(vehicle.brakeDecelCap/G).toFixed(2)+'g) • Susp <b>'+(SUSPENSION[vehicle.suspension]||SUSPENSION.sport).label+'</b>'+
     '<br>Gearbox <b>'+tr(vehicle.gbLabel)+'</b> • shift '+(vehicle.shiftTime*1000).toFixed(0)+' ms • driveline '+(vehicle.driveEff*100).toFixed(0)+'%'+(vehicle.gb.stall?' • converter stall '+vehicle.gb.stall+' rpm ×'+vehicle.gb.mult.toFixed(1):'')+
+    '<br>Diff <b>'+tr(vehicle.diffLabel)+'</b> • puts down '+(vehicle.diffTraction*100).toFixed(0)+'% of axle grip'+
     '<br>Drag CdA <b>'+vehicle.cdA.toFixed(2)+'</b> • downforce ClA <b>'+vehicle.clA.toFixed(2)+'</b> • final drive <b>'+vehicle.finalDrive.toFixed(2)+'</b>'+
     '<br>Vehicle cost <b>'+fmtCost(vehicle.cost)+'</b> • with engine <b>'+fmtCost(vehicle.cost+(engine.cost||0))+'</b>';
   renderPerformance();
@@ -2692,7 +2736,7 @@ function bindControls(){
   document.getElementById('tabOptions').addEventListener('click',()=>setTab('options'));
   // Vehicle design: recompute performance live on any change. Picking a chassis fits its whole
   // factory spec (drivetrain, gearbox, tyres/wheels, brakes, suspension, aero, weight).
-  ['vhChassis','vhDrive','vhGearbox','vhGears','vhGearing','vhTire','vhTireW','vhTireA','vhWheel','vhAeroF','vhAeroR','vhAeroFl','vhWeight','vhBrake','vhRotor','vhSusp'].forEach(id=>{
+  ['vhChassis','vhDrive','vhGearbox','vhDiff','vhGears','vhGearing','vhTire','vhTireW','vhTireA','vhWheel','vhAeroF','vhAeroR','vhAeroFl','vhWeight','vhBrake','vhRotor','vhSusp'].forEach(id=>{
     const el=document.getElementById(id);if(!el)return;
     el.addEventListener('input',()=>{
       if(id==='vhChassis'){

diff --git a/README.md b/README.md
@@ -86,7 +86,8 @@ saps power; a large radiator, electric fan and oil cooler keep it cool.
   tyres and small steel discs while a hypercar gets wide semi-slicks, carbon-ceramics and a
   wing/diffuser package. Every part stays editable from there, and **REFIT FACTORY SPEC** puts it
   all back; the summary marks the car *(factory spec)* or *(modified)*. Tune the
-  **drivetrain** (FWD/RWD/AWD), the **gearbox** — **type** (manual / sequential / DCT /
+  **drivetrain** (FWD/RWD/AWD), the **differential** (open / viscous LSD / clutch-plate LSD /
+  spool — how much of the driven axle's grip you can actually put down), the **gearbox** — **type** (manual / sequential / DCT /
   torque-converter auto, each with its own shift time, driveline loss and ratio spacing; the auto
   adds converter stall & torque multiplication off the line), 4–8 speeds, and a
   **final-drive slider**, 4.90:1 short → 2.60:1 tall, with the ratio shown next to the number —
@@ -283,6 +284,16 @@ Curve** tab remains a wide-open-throttle steady-state sweep for reading the full
   pickup, 8.61 s → 8.01 s) and loses badly on a light, peaky one whose powerband sits far above
   the stall speed (2.0 ITB screamer roadster, 4.55 s → 5.96 s) — at the cost of the worst
   driveline efficiency of the four boxes.
+  The **differential** then sets how much of the driven axle's grip is usable. An axle's two
+  wheels are never loaded identically (camber, torque reaction, axle wind-up, suspension
+  geometry), and an *open* diff can only feed each wheel what the lighter-loaded one holds — it
+  spins that wheel and throws the rest away (≈78 % usable). A *viscous* LSD recovers most of it
+  (92 %), a *clutch-plate* LSD effectively all of it, a *spool* all of it and a little more.
+  Because it caps traction rather than torque, a diff **only matters while the car is
+  traction-limited**: on an 842 hp muscle car, open → spool is worth **1.85 s** to 100 km/h
+  (6.43 → 4.58 s), while on a 48 hp kei it is worth **0.00 s**. Top speed is drag-limited, so the
+  diff never changes it. *(The spool's real penalty is cornering — understeer and tyre scrub —
+  which this straight-line sim doesn't model yet, so it looks strictly best; flagged in the GUIDE.)*
   Top speed is the fastest steady speed **any** gear can hold (thrust = drag + rolling
   resistance, capped by the limiter) — a peaky or over-geared car genuinely reaches its maximum
   one gear down, on the cam, rather than bogging in top. The **gearing number is the final
@@ -348,8 +359,9 @@ philosophy).
    (FWD/RWD/AWD), gearbox, tyres, aero, weight, **brakes and suspension** → **acceleration
    (0–100 km/h, 400/800/1000 m), top speed, 100–0 braking and the 0–200–0 test**, plus
    **per-chassis factory fitment** (each chassis ships with matching tyres/wheels/brakes/
-   suspension/aero) and a REFIT button, and **gearbox types** (manual / sequential / DCT /
-   torque-converter auto). **Next:** differential types (open / LSD / locked), then a test track.
+   suspension/aero) and a REFIT button, **gearbox types** (manual / sequential / DCT /
+   torque-converter auto) and **differential types** (open / viscous LSD / clutch LSD / spool).
+   **Next:** a test track — which will also let the spool's cornering penalty be modelled.
 
 Deferred: V/boxer bank visuals (cosmetic);
 native Android build (parked).
@@ -387,6 +399,7 @@ native Android build (parked).
 - [x] Vehicle layer: chassis/drivetrain/gearbox/tyres/aero/weight/brakes/suspension → 0–100, 400/800/1000 m, top speed, 100–0 & 0–200–0
 - [x] Per-chassis factory fitment (matching tyres/wheels/brakes/suspension/aero) + a final-drive read-out on the gearing slider
 - [x] Gearbox types: manual / sequential / DCT / torque-converter auto (shift time, driveline loss, ratio spread, converter stall & multiplication)
+- [x] Differential types: open / viscous LSD / clutch-plate LSD / spool, capping the usable share of driven-axle grip
 - [x] Calibration pass for realistic power figures & curve shape (ongoing refinement)
 - [ ] Native Android build (wrap the PWA with Capacitor or a Trusted Web Activity)
 
